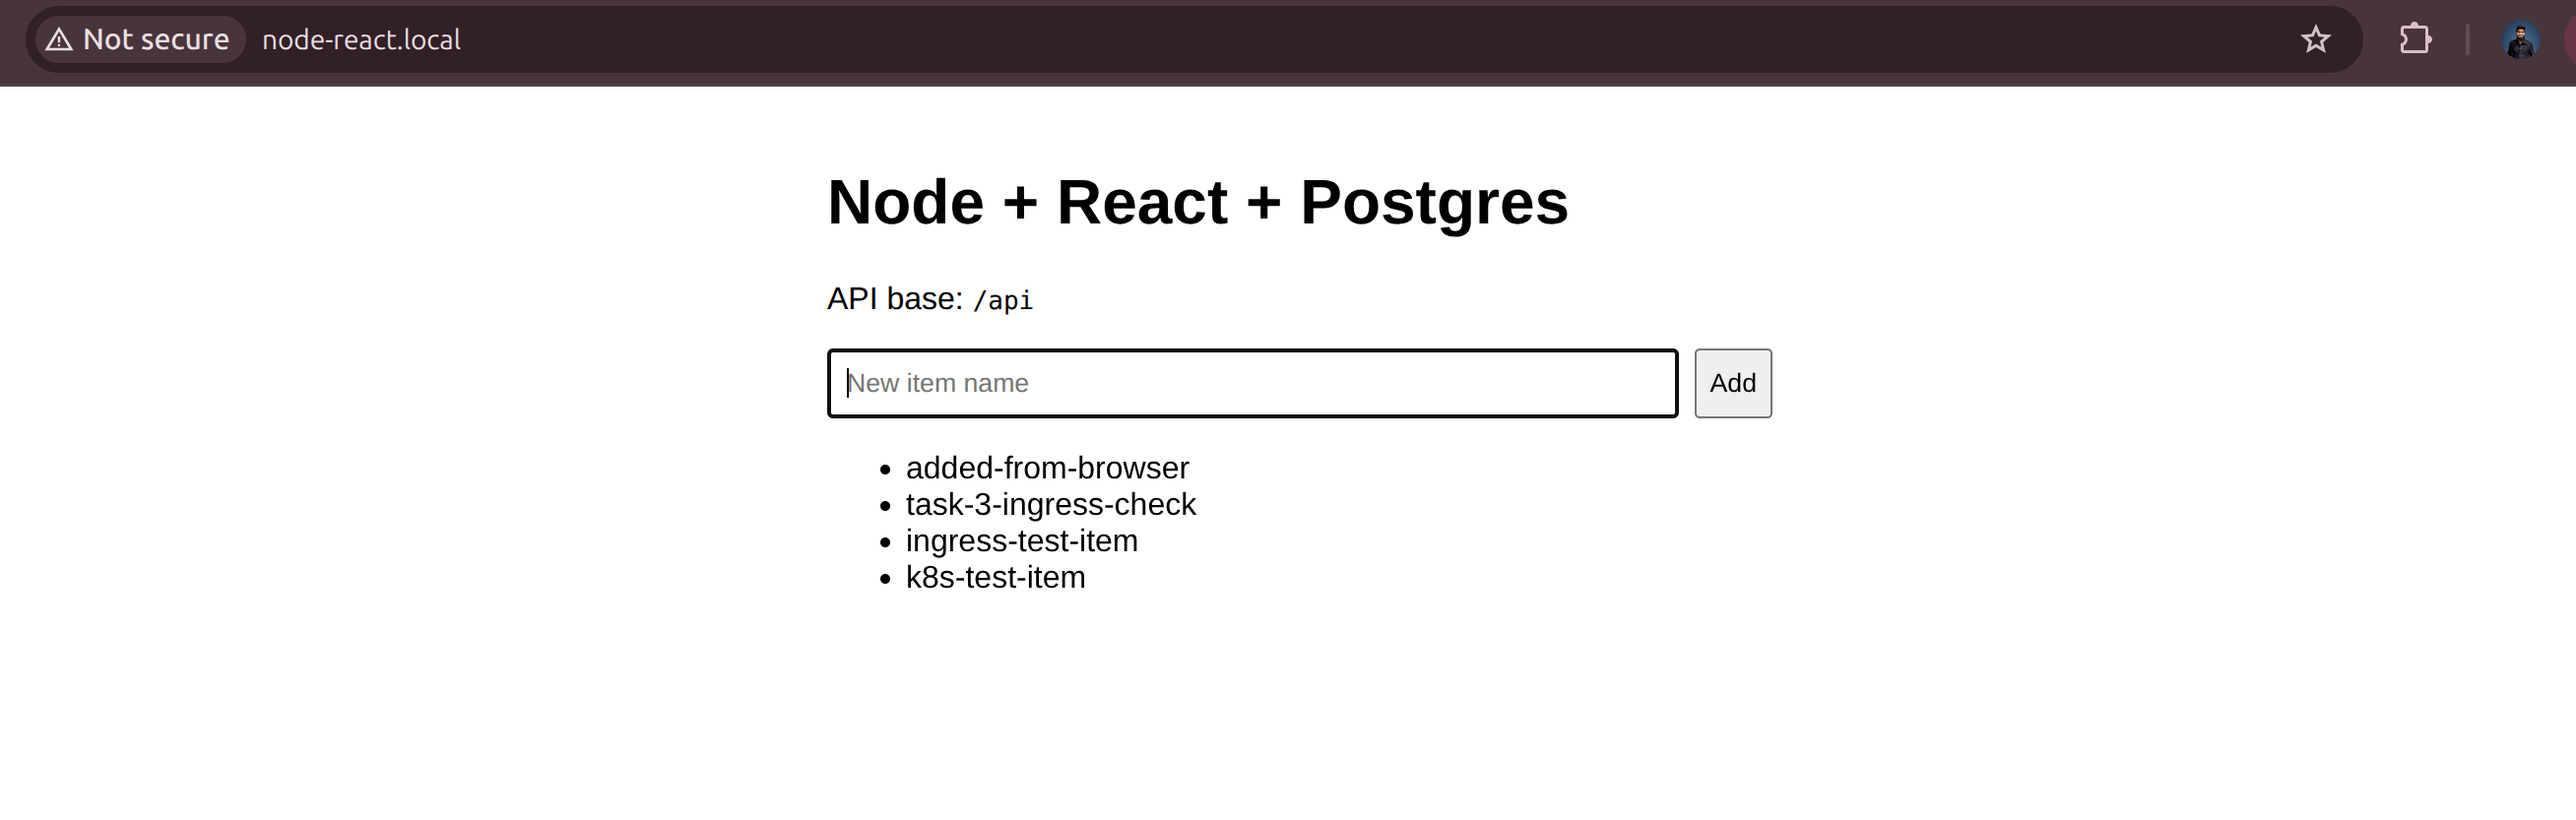
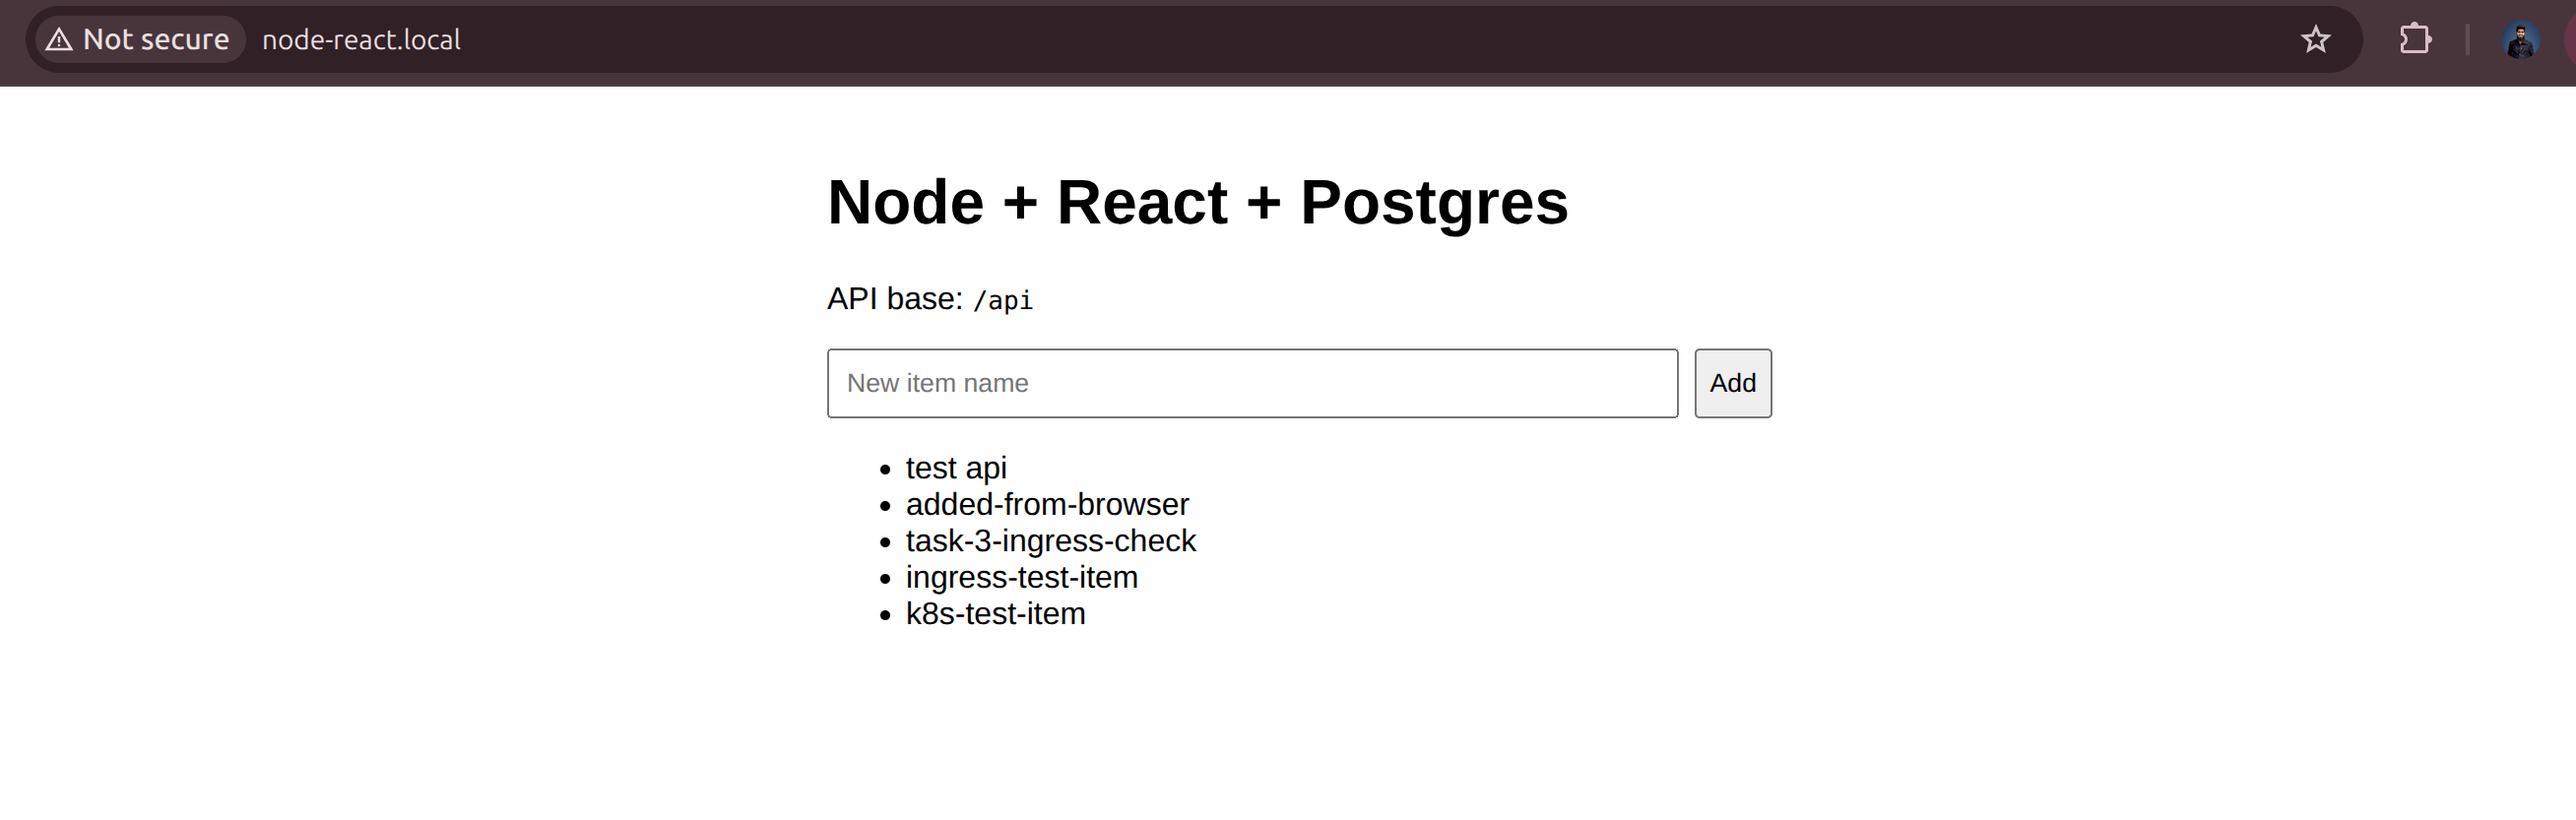
docs: rewrite README for tasks 1-3, add ingress evidence

diff --git a/README.md b/README.md
@@ -2,7 +2,7 @@
 
 A small full-stack app (React frontend, Express backend, PostgreSQL) used as
 a DevOps take-home assessment. It is built up in stages: local containers
-first, then a local Kubernetes cluster, then (planned) Ingress, CI/CD,
+first, then a local Kubernetes cluster, then Ingress, then (planned) CI/CD,
 platform services, and observability.
 
 ## Repo structure
@@ -20,7 +20,7 @@ platform services, and observability.
 ├── k8s/                      # namespace, configmap, secret example, postgres
 │                             # StatefulSet + services, backend/frontend
 │                             # Deployments + services, kind cluster config,
-│                             # ingress (Task 3, not yet documented below)
+│                             # ingress
 ├── docs/                     # evidence screenshots
 ├── docker-compose.yml
 ├── Dockerfile.backend
@@ -99,14 +99,21 @@ docker compose down -v
 ## Task 2 — Kubernetes (kind)
 
 ```bash
-make cluster images secrets deploy
+make cluster ingress images secrets deploy
 ```
 
-Open http://localhost:30080.
+Add to `/etc/hosts`:
 
-> This documents Task 2 as it stood when merged. The `task-3-ingress`
-> branch changes `frontend-service` to `ClusterIP` and moves external
-> access behind an Ingress instead — not covered in this README section.
+```
+127.0.0.1 node-react.local
+```
+
+Open http://node-react.local.
+
+The frontend was first exposed directly with a `NodePort` Service
+(`30080`). Task 3 replaced that with the Ingress below, so
+`frontend-service` is now `ClusterIP` only — see Task 3 for how external
+access works now.
 
 Rebuild and roll out a code change:
 
@@ -159,7 +166,103 @@ make clean
 
 ---
 
-## Issue found during testing
+## Task 3 — Ingress / API Gateway
+
+`make ingress` installs ingress-nginx from the official kind-specific
+manifest, pinned to `controller-v1.15.1` (`k8s/` has no copy of it; the
+Makefile applies it straight from that pinned URL). `k8s/ingress-dev.yaml`
+routes host `node-react.local`: `/api` (Prefix) to `backend-service:4000`,
+`/` (Prefix) to `frontend-service:80`, with no `rewrite-target` annotation,
+so `/api/items` reaches the backend as `/api/items`.
+
+> As of this writing, Kubernetes SIG Network has retired the community
+> ingress-nginx project (announced November 2025); best-effort maintenance
+> ran only until March 2026, after which there are no further releases or
+> security fixes upstream. `controller-v1.15.1` still works for this local,
+> time-boxed assessment, but a real deployment built today should look at
+> the Gateway API or another controller instead.
+> ([kubernetes.io/blog](https://kubernetes.io/blog/2025/11/11/ingress-Nginx-retirement/))
+
+### Request path: Browser → Ingress → Service → Pod → PostgreSQL
+
+1. Browser resolves `node-react.local` to `127.0.0.1` via the `/etc/hosts`
+   entry.
+2. Connects to `127.0.0.1:80` → kind's `extraPortMappings`
+   (`k8s/kind-config.yaml`) forward that into the
+   `devops-assessment-control-plane` node's container port 80.
+3. The ingress-nginx controller pod is listening there via `hostPort`: its
+   Deployment is pinned with `nodeSelector: {ingress-ready: "true"}`
+   (`make ingress`'s `kubectl patch`), the only label matching that node.
+4. The controller matches the `Ingress` object (`app-ingress`, namespace
+   `dev`) by host and path, and proxies to `backend-service` or
+   `frontend-service` — both `ClusterIP` — not to a pod IP directly.
+5. `kube-proxy`'s iptables/IPVS rules for that Service load-balance to one
+   of its healthy pod endpoints.
+6. For `/api/*` requests, the backend pod queries Postgres through
+   `postgres-service` (`ClusterIP`), which routes to the single
+   `postgres-0` pod.
+
+### Kubernetes DNS
+
+A pod's `/etc/resolv.conf` (confirmed live inside a `backend` pod):
+
+```
+search dev.svc.cluster.local svc.cluster.local cluster.local
+nameserver 10.96.0.10
+options ndots:5
+```
+
+- `nameserver 10.96.0.10` is the `kube-dns` Service's ClusterIP, backed by
+  the CoreDNS pods in `kube-system`. CoreDNS watches the Kubernetes API for
+  `Service`/`EndpointSlice` objects directly and answers from that live
+  state — it isn't reading a static zone file.
+- `options ndots:5` means a name with fewer than 5 dots is not tried as
+  absolute first. A bare `backend-service` is tried against each `search`
+  suffix in order — `backend-service.dev.svc.cluster.local` first (same
+  namespace) — until one resolves.
+- A fully-qualified name with a trailing dot
+  (`backend-service.dev.svc.cluster.local.`) skips the search list and
+  resolves in one query.
+
+### Debugging
+
+**(a) Ingress reachable, backend not:**
+
+```bash
+kubectl get ingress -n dev app-ingress -o yaml   # host/paths/backend names correct?
+kubectl get endpoints backend-service -n dev     # empty = selector matches no Ready pod
+kubectl get pods -n dev -l app.kubernetes.io/name=backend -o wide
+kubectl describe pod -n dev -l app.kubernetes.io/name=backend   # readiness probe status/events
+kubectl logs -n dev -l app.kubernetes.io/name=backend --tail=50
+kubectl logs -n ingress-nginx -l app.kubernetes.io/component=controller --tail=50   # 502/503 upstream errors
+```
+
+**(b) Frontend can't reach backend:**
+
+```bash
+kubectl logs -n dev -l app.kubernetes.io/name=frontend --tail=50   # nginx access/error log, actual request path
+kubectl get cm app-config -n dev -o yaml          # BACKEND_URL=http://backend-service:4000 ?
+kubectl exec -n dev deploy/frontend -- cat /etc/nginx/conf.d/default.conf   # did envsubst render BACKEND_URL correctly?
+kubectl get ingress -n dev -o yaml                # /api path rule present, no stray rewrite-target
+```
+
+### Evolving to microservices
+
+Splitting the backend into multiple services means adding more path rules to
+the same `Ingress` — `/api/users` → `users-service`, `/api/orders` →
+`orders-service` — each its own `Deployment` + `ClusterIP` Service. The DNS
+and probe patterns already in place don't change. Once routing needs more
+than path matching — traffic splitting, canary rollouts, mTLS between
+services, retries/timeouts per route — a single `Ingress` object stops being
+enough, and that's the point to move to a dedicated API gateway or the
+Gateway API (the latter is also the direction Kubernetes itself now points
+to, given ingress-nginx's retirement above).
+
+---
+
+## Issues found during testing
+
+### 1. Postgres connection pool crash
 
 Deleting the Postgres pod (`kubectl delete pod -n dev postgres-0`) to test
 persistence crashed the backend:
@@ -183,8 +286,29 @@ persistence crashed the backend:
   already used in `backend/src/redisClient.js`).
 - **Re-test:** after `make redeploy`, deleted `postgres-0` again and polled
   `kubectl get pods -n dev` for about 40 seconds. Both backend pods stayed
-  at `RESTARTS: 0`. `GET /api/items` through the NodePort still returned the
-  item created before the test once Postgres was ready again.
+  at `RESTARTS: 0`. `GET /api/items` still returned the item created before
+  the test once Postgres was ready again.
+
+### 2. Ingress controller scheduled off the control-plane node
+
+- **Symptom:** `curl -H "Host: node-react.local" http://localhost/api/health`
+  failed with `Recv failure: Connection reset by peer` (curl exit code 56),
+  even though the controller pod was `Running` and `1/1 Ready`.
+- **Cause:** `kubectl get pods -n ingress-nginx -o wide` showed the
+  controller pod scheduled on a worker node. The pinned manifest's
+  controller Deployment only requires `nodeSelector: {kubernetes.io/os:
+  linux}` — nothing pins it to a specific node — so on this 3-node cluster
+  the scheduler was free to place it anywhere. But `k8s/kind-config.yaml`'s
+  `extraPortMappings` for ports 80/443 only forward into the
+  `devops-assessment-control-plane` container (confirmed with
+  `docker ps --filter name=devops-assessment-control-plane`). The host's
+  port 80 had nothing listening behind it on that node.
+- **Fix:** added a `kubectl patch deployment ingress-nginx-controller`
+  step to `make ingress`, setting
+  `nodeSelector: {ingress-ready: "true"}` — the label only the
+  control-plane node carries. After the rollout, `kubectl get pods -n
+  ingress-nginx -o wide` showed the pod on `devops-assessment-control-plane`,
+  and the same `curl` succeeded.
 
 ---
 
@@ -210,27 +334,22 @@ persistence crashed the backend:
 
 - [docs/task2-kubectl-get-all.png](docs/task2-kubectl-get-all.png) —
   `kubectl get all -n dev` output for Task 2.
+- [docs/task3-app-ingress.png](docs/task3-app-ingress.png) — the app
+  running at http://node-react.local through the Ingress.
 - [docs/task3-ingress-controller.png](docs/task3-ingress-controller.png) —
-  the ingress-nginx controller pod scheduling issue: it first landed on a
-  worker node, where the `kind-config.yaml` 80/443 `hostPort` mappings
-  (control-plane only) couldn't reach it. Fixed with a `kubectl patch` in
-  `make ingress` pinning the controller's `nodeSelector` to
-  `ingress-ready: "true"`.
+  the ingress-nginx controller pod, pinned to the control-plane node after
+  the scheduling fix above.
 
 ---
 
-## Task 3 — Ingress / API Gateway
-
-
-
 ## Task 4 — CI/CD & Multi-Environment Deployment
 
-
+TODO
 
 ## Task 5 — Platform Services: Redis, Queue, Search, Read/Write DB
 
-
+TODO
 
 ## Task 6 — Observability, Scaling & Rate Limiting
 
-
+TODO
